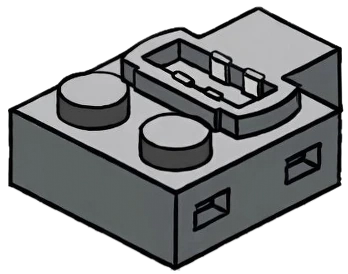
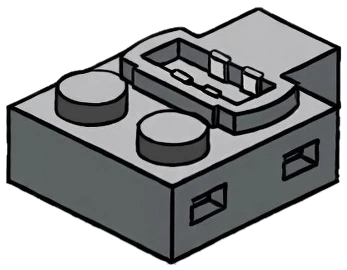
Wiring: connectors placed with one straight transform each (no bending): vertical edges stay vertical, X/Y axis angle and scale fitted to the hub camera
Claude-Session: https://claude.ai/code/session_01RxQ4QJZ9M2VY5cz1gsySH8

diff --git a/app/src/main/assets/app.js b/app/src/main/assets/app.js
@@ -6403,11 +6403,11 @@ var HUBS={
   P:{A:[1541.74,1382.68,0,1,'f'],B:[1541.74,895.18,0,-1,'b'],C:[1867.6,1382.68,0,1,'f'],D:[1867.6,895.18,0,-1,'b'],E:[2192.03,1382.68,0,1,'f'],F:[2192.03,895.18,0,-1,'b']}},
  '4':{img:'img/pf/hub4.webp',WH:[1003,846],M:[[0.508856, 0.519224, -1521.952875], [-0.248186, 0.252122, 425.916552]],K:0.58,AZ:103.198,
   P:{A:[1950.0,1746.15,-1,0,'ab'],B:[1950.0,1420.86,-1,0,'ab'],C:[2762.5,1420.86,1,0,'cd'],D:[2762.5,1746.15,1,0,'cd']}}};
-// the user's connector, drawn from four sides (his drawing). Each side view is re-projected face by face (top, left, right)
-// into the hub camera, so it stands square on its 2x2 spot: off = picture corner from the near-left bottom corner of the spot
+// the user's connector, drawn from four sides (his drawing). Each view is placed with one straight transform (never bent):
+// vertical edges stay vertical, scale and the X/Y axis angles fitted to the hub camera, centred on its 2x2 spot: off = picture corner from the near-left bottom corner of the spot
 // on the hub top, ex = where its cable leaves, both in hub picture px.
 // 6.0: b = B D F (housing to the back), f = A C E (mouth to the front); 4.0: ab = A B (mouth to the A/B end), cd = C D (housing to the C/D end)
-var PLUGS={b:{W:404,H:353,off:[-5.79,-219.48],ex:[51.17,-69.99]},f:{W:399,H:327,off:[-4.85,-191.56],ex:[311.57,26.44]},cd:{W:348,H:274,off:[-6.10,-186.06],ex:[291.94,-65.59]},ab:{W:348,H:249,off:[-8.34,-159.38],ex:[50.62,-3.85]}};
+var PLUGS={b:{W:377,H:298,off:[-6.79,-180.48],ex:[45.34,-63.29]},f:{W:377,H:280,off:[-4.85,-160.56],ex:[317.39,17.51]},cd:{W:347,H:270,off:[-4.10,-183.06],ex:[292.36,-65.00]},ab:{W:348,H:246,off:[-7.34,-157.38],ex:[50.12,-4.78]}};
 var HKIND='',HIMG='',PORTS={};
 function hubKind(){var k=isMk4(WR.slot)?'4':'6',h=HUBS[k];HM=h.M;HK=h.K;HWH=h.WH;HIMG=h.img;PORTS=h.P;AZ=[0,-HK*h.AZ];if(HKIND!==k){HKIND=k;slotsFor(k)}}
 function W(x,y,z){return [HP[0]+HK*(HM[0][0]*x+HM[0][1]*y+HM[0][2])+(z-HZ)*AZ[0],HP[1]+HK*(HM[1][0]*x+HM[1][1]*y+HM[1][2])+(z-HZ)*AZ[1]]}
